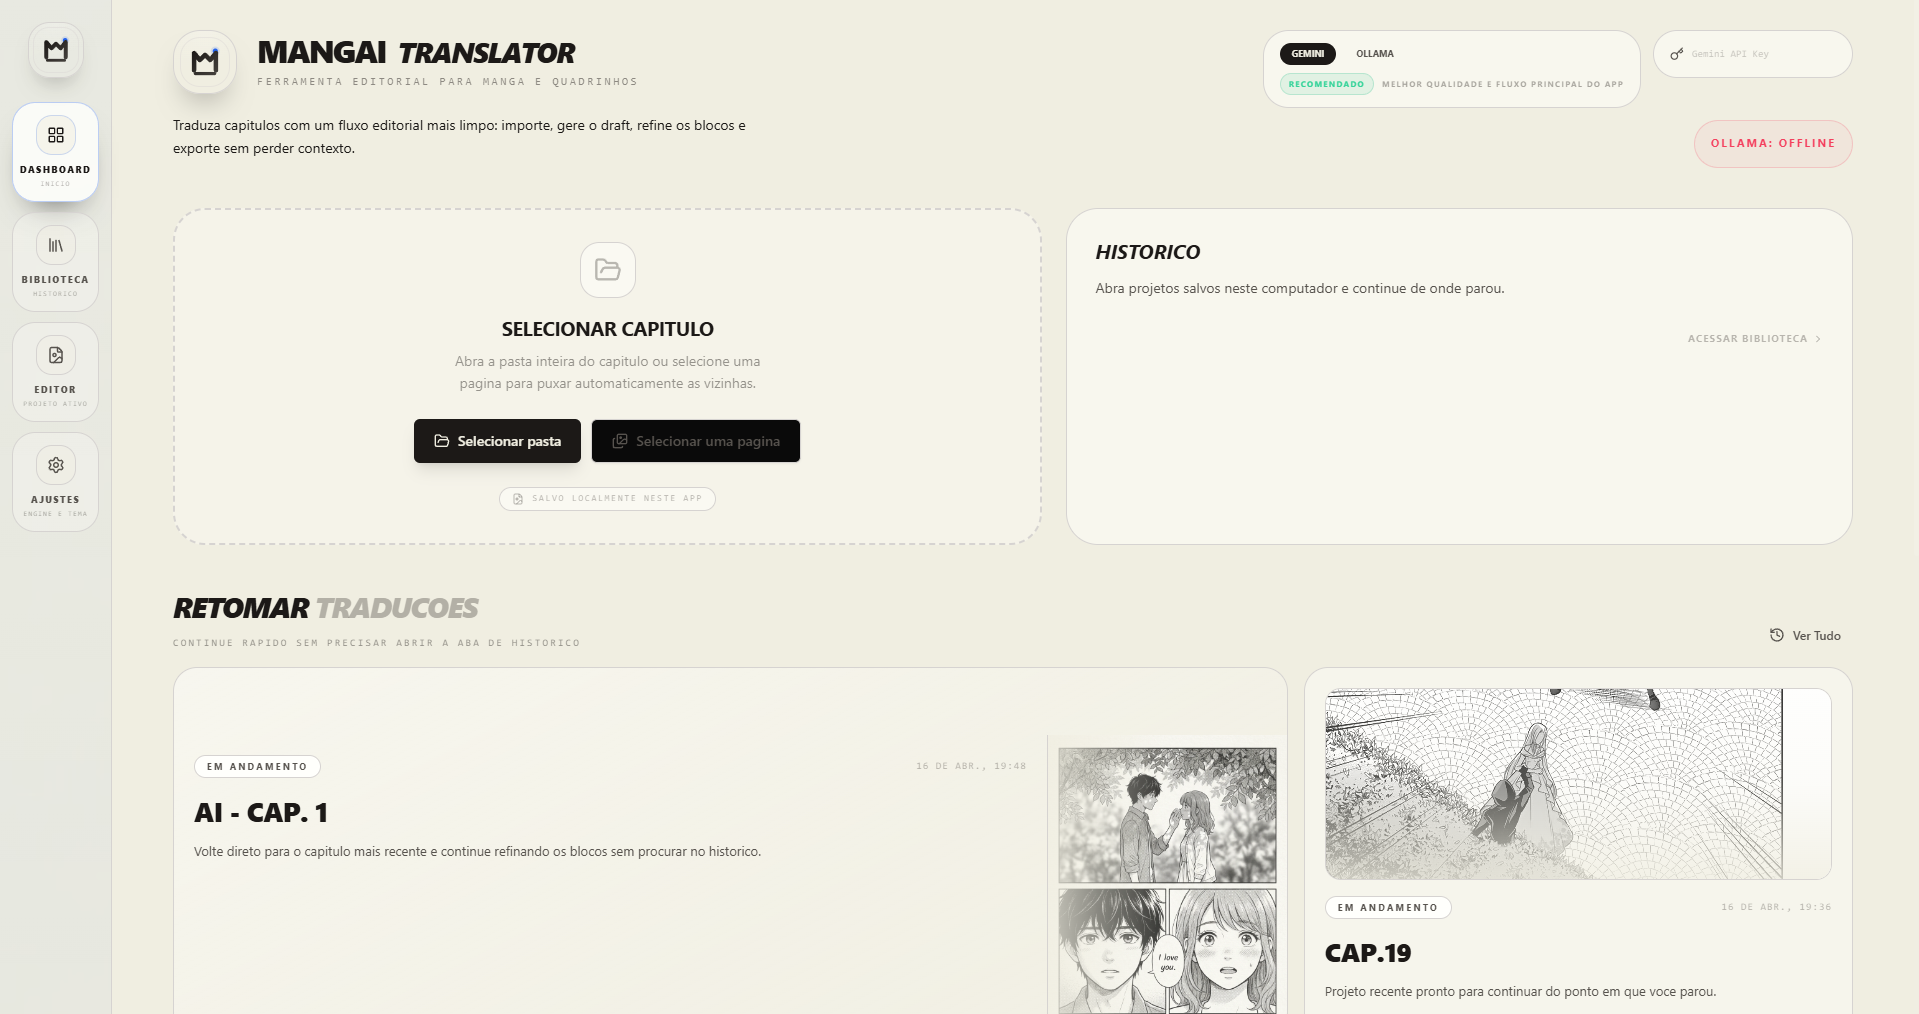
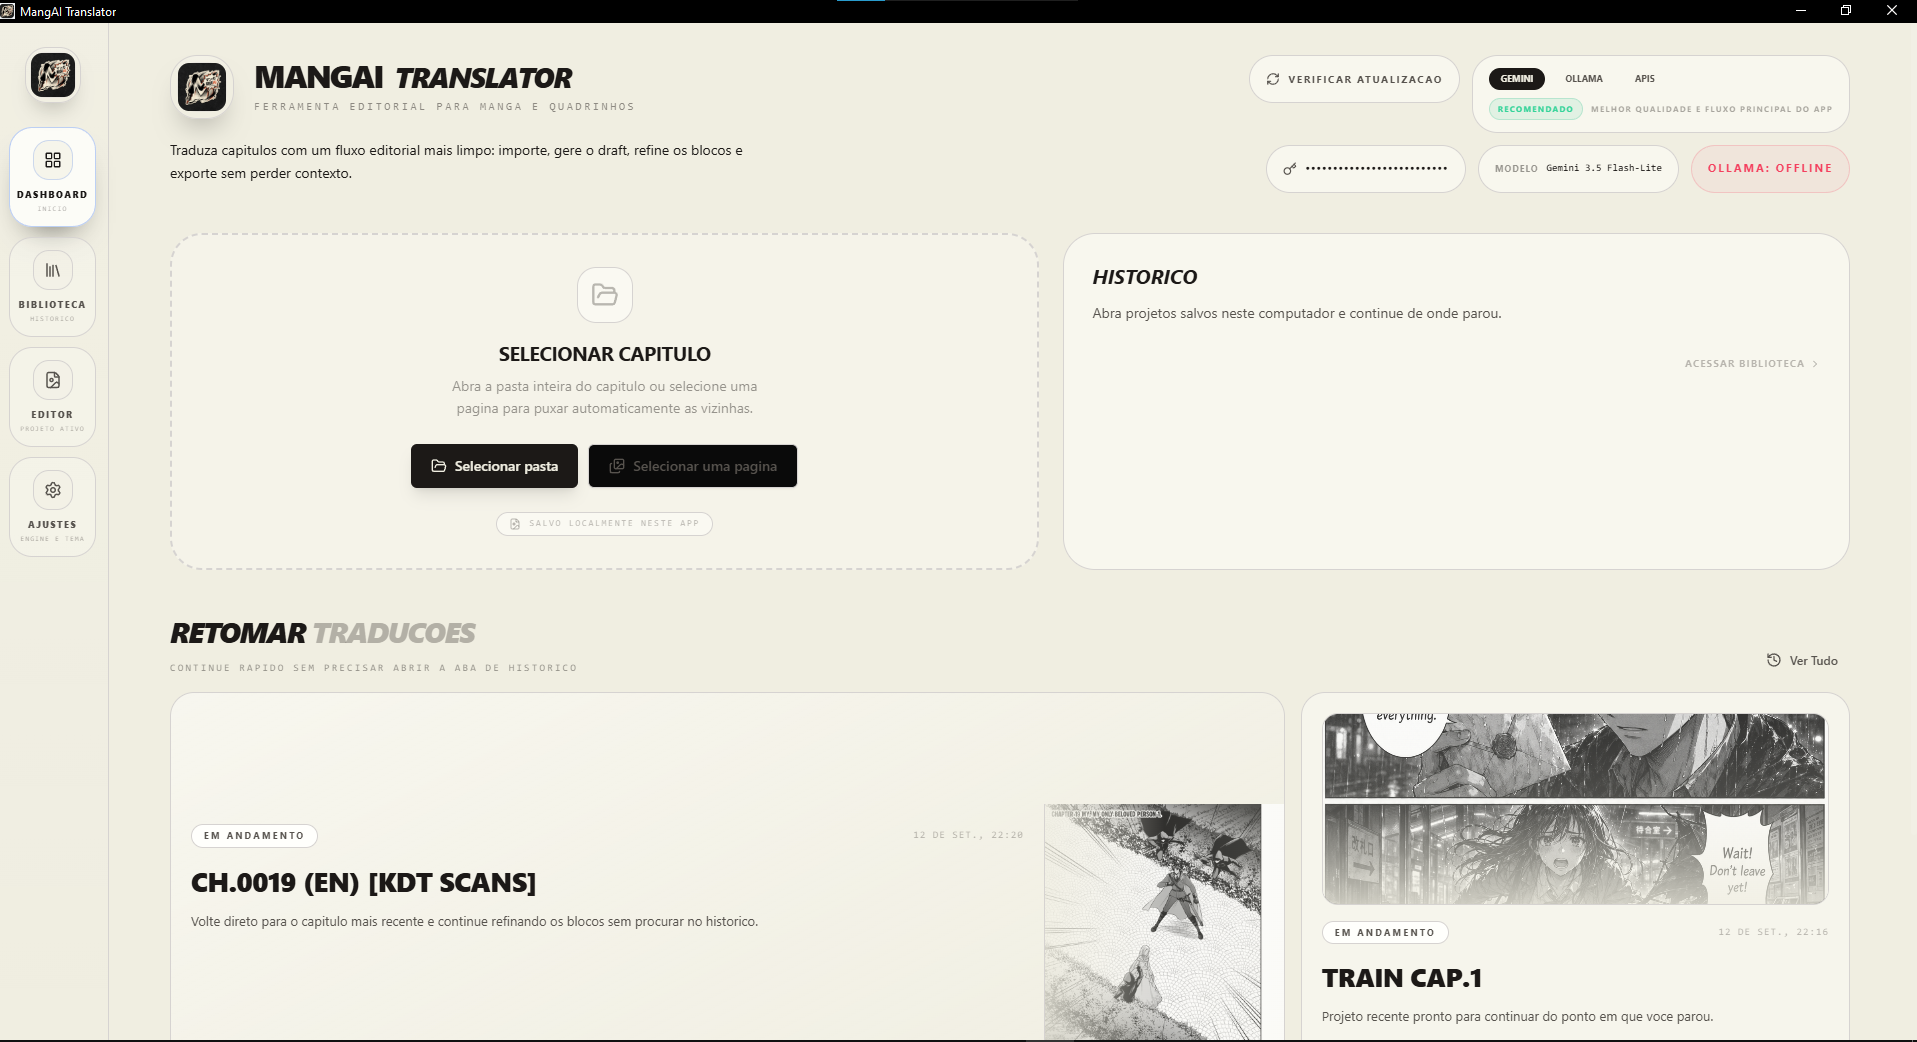
docs: atualiza capturas v3, remove destaque legado e alinha badges para v0.3.0

diff --git a/README.md b/README.md
@@ -8,8 +8,8 @@ Desktop app para localização assistida de mangá e quadrinhos.
   <a href="https://github.com/Zentsy/MangAItranslator/releases/latest">
     <img alt="Baixar para Windows x64" src="https://img.shields.io/badge/Baixar-Windows%20x64-00A884?style=for-the-badge&logo=windows&logoColor=white">
   </a>
-  <a href="https://github.com/Zentsy/MangAItranslator/releases/tag/v0.2.0">
-    <img alt="Release atual v0.2.0" src="https://img.shields.io/badge/Release-v0.2.0-2F3342?style=for-the-badge">
+  <a href="https://github.com/Zentsy/MangAItranslator/releases/tag/v0.3.0">
+    <img alt="Release atual v0.3.0" src="https://img.shields.io/badge/Release-v0.3.0-2F3342?style=for-the-badge">
   </a>
   <a href="https://ko-fi.com/zentsy">
     <img alt="Apoiar no Ko-fi" src="https://img.shields.io/badge/Apoiar-Ko--fi-FF5E5B?style=for-the-badge&logo=kofi&logoColor=white">
@@ -26,7 +26,7 @@ O MangAI Translator ajuda você a importar um capítulo, gerar um rascunho com I
 ## Download
 
 - Baixar a versão mais recente: [GitHub Releases](https://github.com/Zentsy/MangAItranslator/releases/latest)
-- Release atual: [v0.2.0](https://github.com/Zentsy/MangAItranslator/releases/tag/v0.2.0)
+- Release atual: [v0.3.0](https://github.com/Zentsy/MangAItranslator/releases/tag/v0.3.0)
 
 Se o projeto te ajudar e você quiser apoiar o desenvolvimento, também dá para contribuir em [Ko-fi](https://ko-fi.com/zentsy).
 
@@ -44,37 +44,35 @@ Se você baixou o app deste repositório oficial e quiser testar mesmo assim, re
 
 ## O que o app faz
 
-- importa uma pasta inteira do capítulo ou puxa páginas vizinhas a partir de uma única imagem
-- salva projetos localmente para continuar depois
-- gera rascunhos com Gemini, OpenRouter, LM Studio, Groq ou Ollama
-- permite revisar, reorganizar e editar blocos manualmente
-- exporta em `.txt` e `.docx`
-- checa novas versões pelo próprio app
+- importa pastas completas de capítulos ou páginas avulsas com detecção de vizinhas
+- tradução em lote assíncrona (batch queue) com monitor de progresso em tempo real
+- glossário local por projeto persistido em SQLite para coerência de termos, nomes e golpes
+- memória de contexto de curto prazo entre páginas para consistência narrativa
+- atalhos de alta produtividade (`M` para mesclar balões, `S` para trocar ordem, navegação por teclado)
+- cofre seguro de chaves com isolamento por provedor e proteção nativa do keyring do SO
+- suporte a motores de ponta: Gemini, OpenRouter, Groq, LM Studio e Ollama
+- revisão de blocos no editor com preservação e formatação editorial
+- exportação final em `.txt` e `.docx`
+- checagem e atualização automática pelo próprio app
 
 ## Motores de IA
 
 ### Recomendado
 
-- `Gemini`: melhor experiência geral para qualidade, OCR e consistência.
-- `Groq`: modo turbo para páginas leves; quando funciona bem, é quase instantâneo.
-- `OpenRouter Auto grátis`: tenta modelos vision gratuitos em fila, sem usar modelos pagos automaticamente.
+- `Gemini`: melhor experiência geral para qualidade, OCR e consistência (Gemini 3.8 Flash nativo).
+- `Groq`: modo turbo para páginas leves com velocidade quase instantânea no hardware LPU.
+- `OpenRouter Auto grátis`: seleciona automaticamente modelos vision gratuitos com fallback seguro.
 
 ### Local
 
-- `LM Studio`: melhor opção local hoje. Funciona com modelos carregados no LM Studio e pode usar GPU dependendo da sua máquina.
-- `Ollama`: opção local simples e experimental. Pode ser bem mais lenta em CPU.
+- `LM Studio`: melhor opção local hoje. Suporta aceleração por GPU e modelos vision modernos como Qwen 3 VL.
+- `Ollama`: opção local simples e experimental para quem já usa o ecossistema Ollama.
 
 ### Importante sobre modelos grátis
 
 No OpenRouter, a qualidade depende do modelo gratuito disponível no momento. O app tenta corrigir respostas duplicadas, vazias ou mal formatadas, mas alguns modelos pequenos podem apenas transcrever o texto em vez de traduzir.
 
 ## Capturas de tela
-
-### Destaque
-
-O editor é o coração do app, agora com monitor de progresso em tempo real e tradução em lote integrada.
-
-![Editor com revisão de blocos e monitor de lote](screenshots/editor.png)
 
 ### Fluxo de Trabalho & Produtividade
 
@@ -93,7 +91,7 @@ O editor é o coração do app, agora com monitor de progresso em tempo real e t
 | Modelos e Motores (v0.3.0) | Tema Claro |
 | --- | --- |
 | ![Seleção de modelos e motores](screenshots/configs_v3.png) | ![Dashboard no tema claro](screenshots/tema%20branco%20-%20home.png) |
-| Gemini 3.8 Flash, Claude Sonnet 5, GPT-6 Astra, Groq LPU e modelos locais. | Interface de alto contraste pensada para leitura de mangá em qualquer tema. |
+| Gemini 3.8 Flash, Claude Sonnet 5, GPT-6 Astra, Groq LPU e modelos locais. | Interface editorial de alto contraste adaptada para revisão diurna. |
 
 ## Fluxo rápido
 
